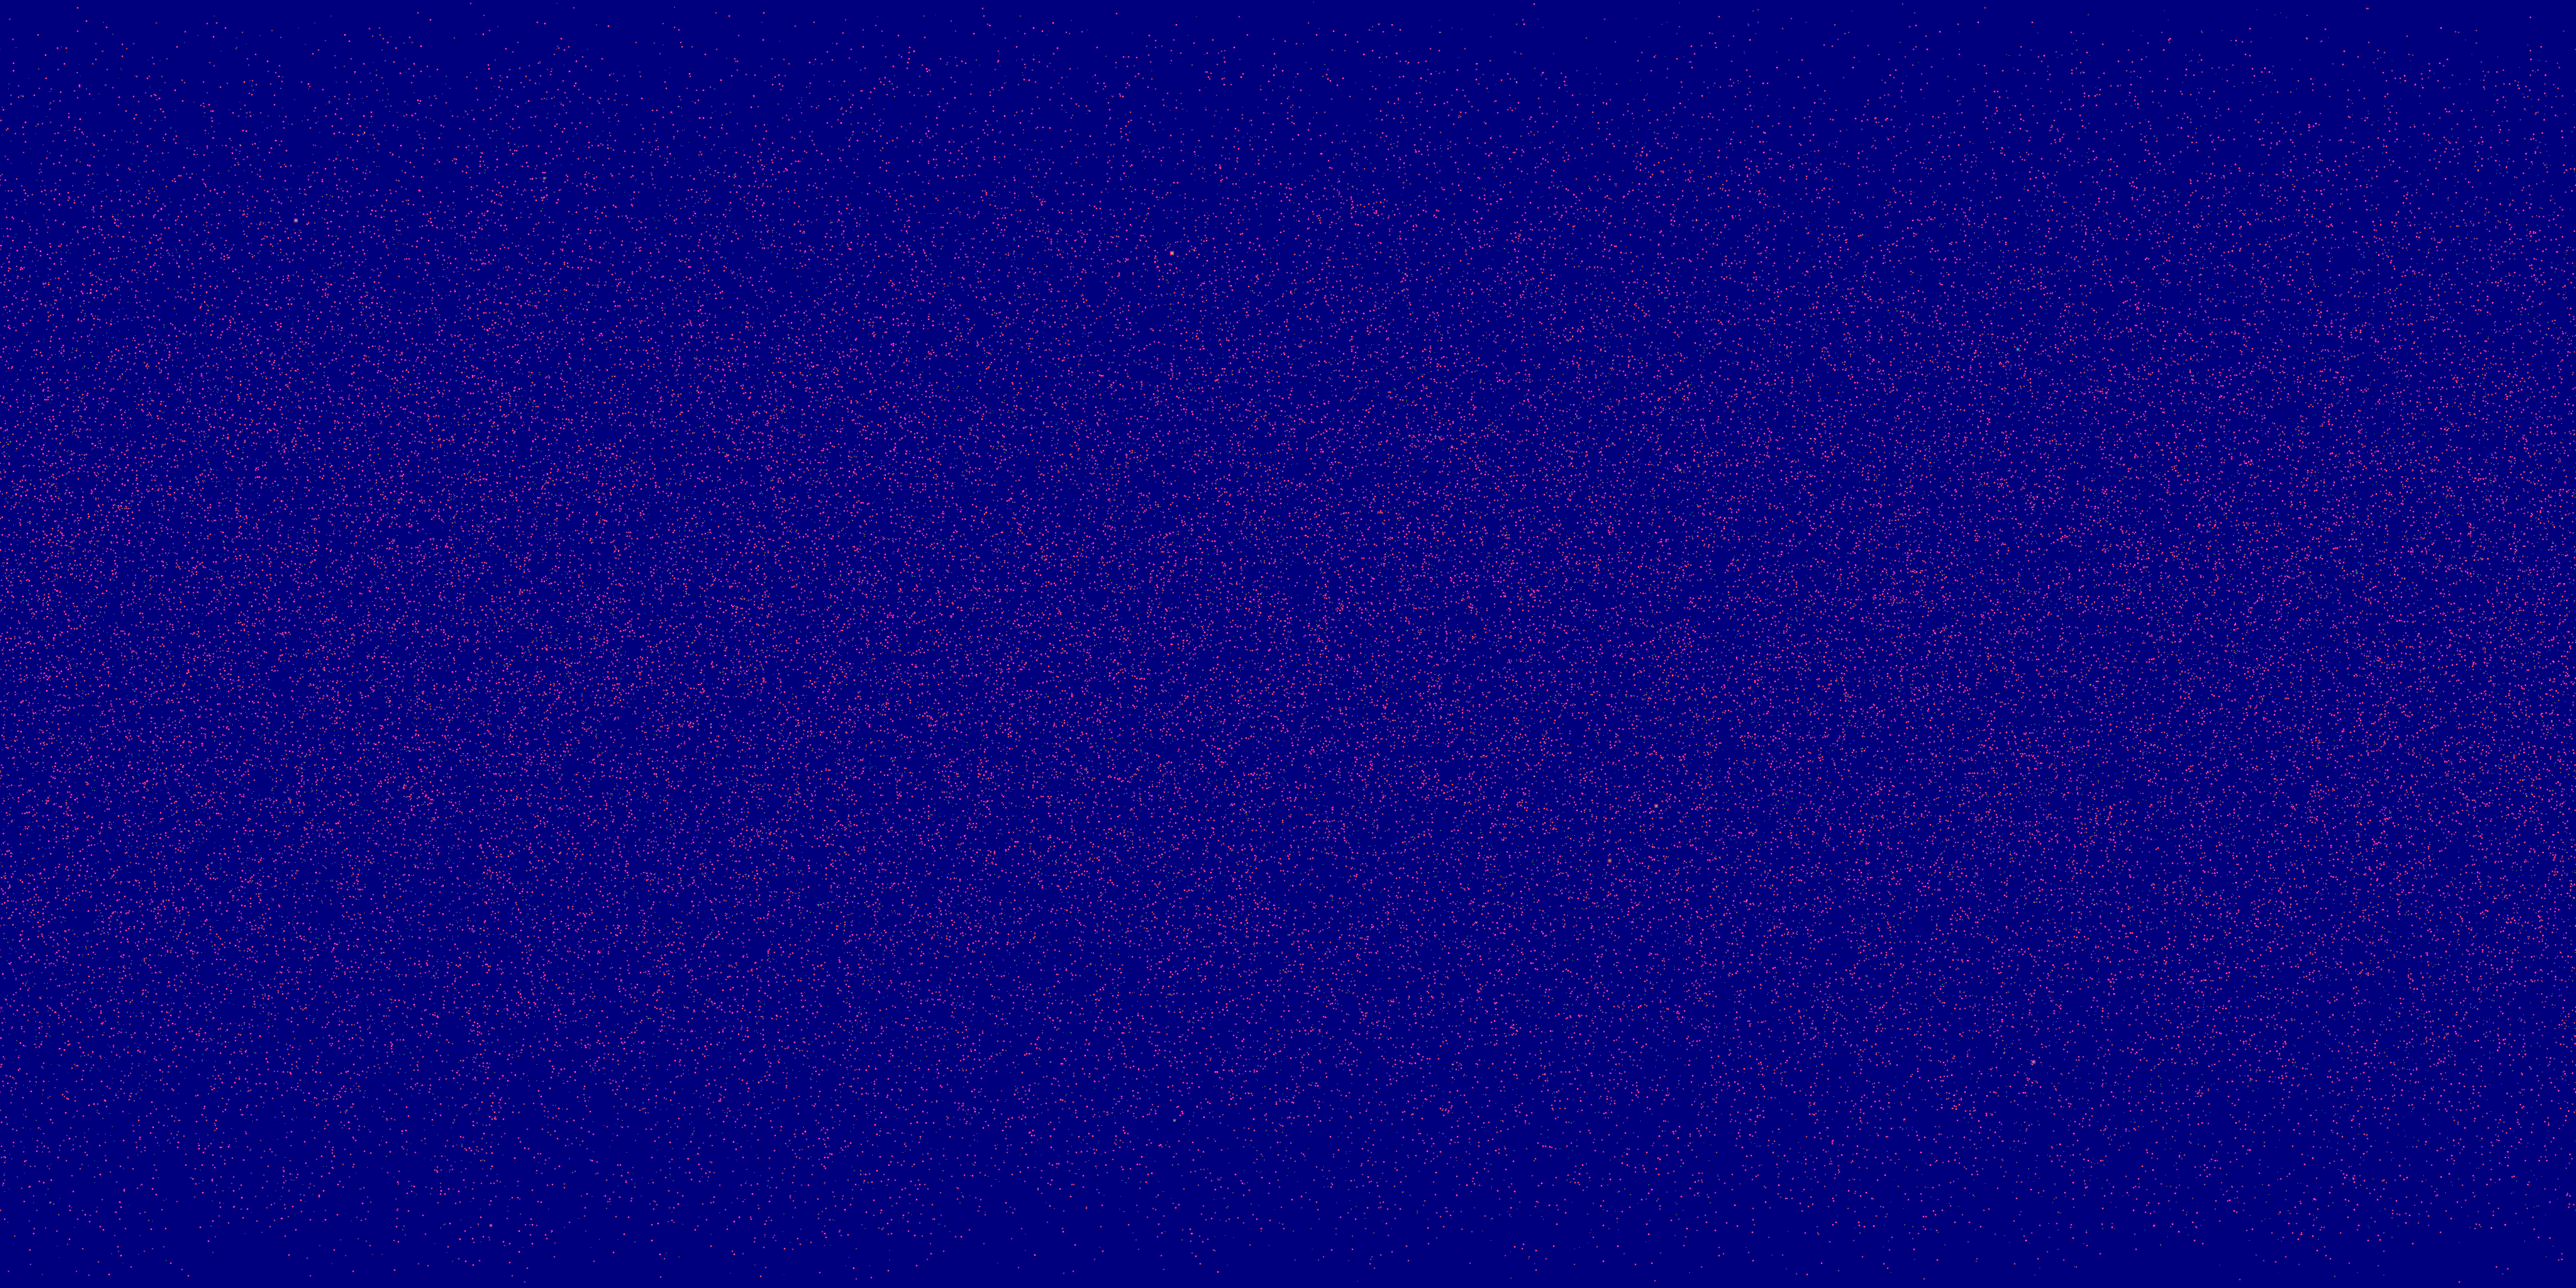
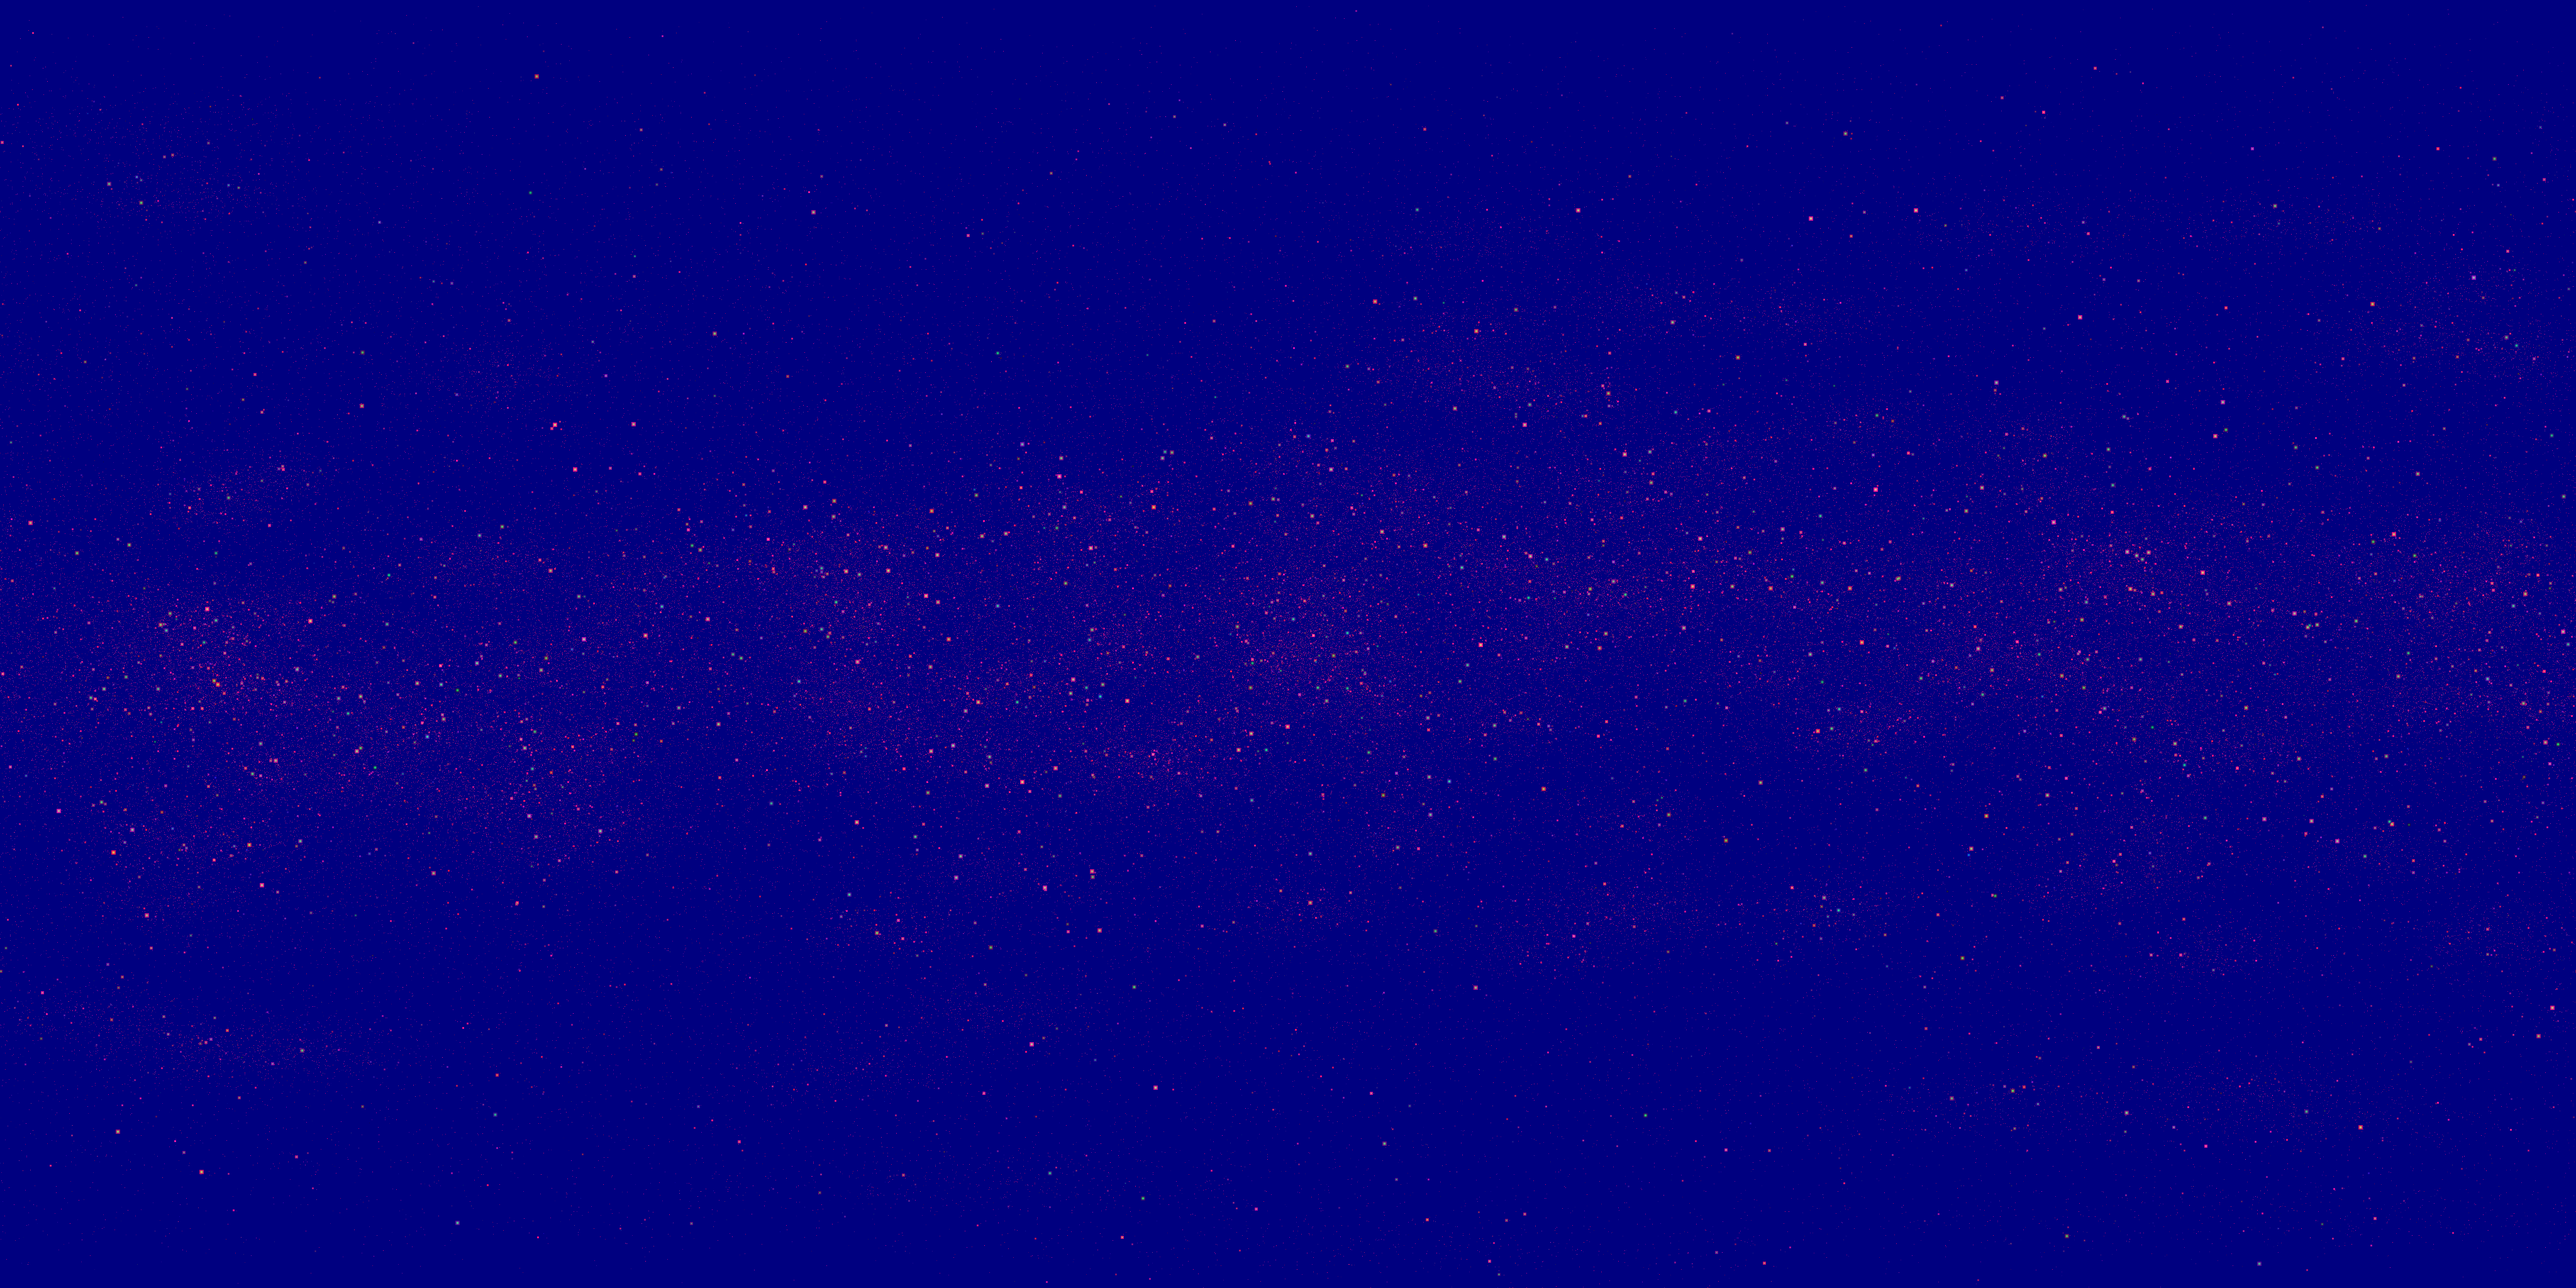
Set the sky uniforms the lab never wired up, and rewrite the star generator
Two things, and the first is mine to own.

The domain-arms change added seven uniforms to the shader and wired none of
them here. An unset uniform is zero, so bg_star_gain and bg_nebula_gain were
zero: the lab has been rendering with no background stars and no nebula
plate since that merged. The site sets them and was never affected, which is
exactly why it went unnoticed — the repo with the visual loop is the one
that went blind.

Second, the star texture. The old one had three problems, all measurable on
the shipped file:

  Every star the same size. Brightness was graded into radii and then both
  branches assigned 1, so the second did nothing. 60 percent of stars were
  exactly 9 texels, 22 percent exactly 1, and there was no third size.

  Every star the same brightness. The comment said most stars are dim; the
  distribution behind it had mean 0.85 and produced mostly bright ones. 95
  percent of cores fell between 116 and 190 of 255 — a 1.6x spread across a
  whole sky.

  Density uniform on the sphere, deliberately and exactly: flat to within 3
  percent across eight equal-solid-angle bands. No plane, no clumps.

The replacement draws brightness from Euclidean number counts, which is the
one fact that makes a sky a sky — most faint, a few unmistakable — sizes it
by that brightness, and crowds it into the galactic plane already painted
into milkyway-preview.jpg, meander and all, so the stars and the nebula
finally agree about where the galaxy is.
[…]

diff --git a/src/main.js b/src/main.js
@@ -174,6 +174,30 @@ import Lenis from 'lenis';
     bg_tint: { type: "v3", value: new THREE.Vector3(1.0, 1.0, 1.0) },
     space_color_plane: { type: "v3", value: new THREE.Vector3(0.01, 0.013, 0.03) },
     space_color_pole: { type: "v3", value: new THREE.Vector3(0.0, 0.0, 0.006) },
+    // The background sky, as gains rather than literals at the call site so each
+    // layer can be switched off on its own while the world is tuned. These are
+    // the values that used to be written into sample_sky's arguments.
+    bg_star_gain: { type: "f", value: 3.0 },
+    bg_nebula_gain: { type: "f", value: 0.2 },
+    // The skill web's domains as the galaxy's arms. The site drives these from
+    // src/data/skill-web.json, which is where the angles and accents below come
+    // from; they are copied here so the arms can be tuned by eye without the
+    // portfolio's data layer. Keep them in step, or tune here and re-read the
+    // numbers off the data rather than off this.
+    arm_color: { type: "v3v", value: [
+      new THREE.Vector3(1.000, 0.478, 0.094),   // #ff7a18
+      new THREE.Vector3(0.133, 0.827, 0.933),   // #22d3ee
+      new THREE.Vector3(0.204, 0.827, 0.600),   // #34d399
+      new THREE.Vector3(0.957, 0.447, 0.714),   // #f472b6
+      new THREE.Vector3(0.655, 0.545, 0.980),   // #a78bfa
+      new THREE.Vector3(0, 0, 0), new THREE.Vector3(0, 0, 0), new THREE.Vector3(0, 0, 0),
+    ] },
+    arm_angle: { type: "fv1", value: [
+      -90, -18, 54, 126, 198, 0, 0, 0,
+    ].map((deg) => deg * Math.PI / 180) },
+    arm_count: { type: "i", value: 5 },
+    arm_gain: { type: "f", value: 0.035 },
+    arm_pole: { type: "v3", value: new THREE.Vector3(0.22, 0.94, 0.26).normalize() },
     // The far side. Rotated well away from the background's own 45° so the star
     // pattern through the throat is visibly not the star pattern around it, and
     // landed on 40° because that patch of the nebula plate has the clumpy
